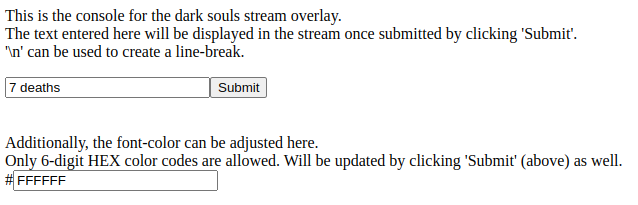
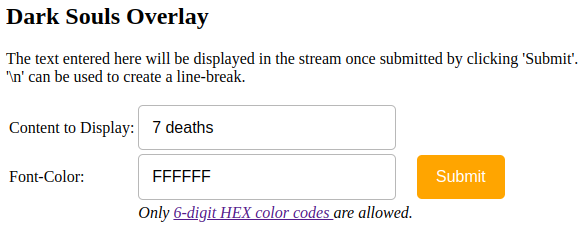
Change layout of dashboard a bit.

Changed region(s): [[0.0, 0.0293, 0.9796, 0.5854], [0.0, 0.6146, 0.9796, 0.9659]]

diff --git a/src/test/kotlin/dev/moetz/darksouls/AdminPluginTest.kt b/src/test/kotlin/dev/moetz/darksouls/AdminPluginTest.kt
@@ -95,12 +95,30 @@ class AdminPluginTest {
 <html>
   <head>
     <meta charset="utf-8">
-    <title>Set the Dark Souls Counter Text</title>
+    <title>Dark Souls Overlay</title>
+    <style>body {font-size: 1em;}.inputfield {border: 1px solid #B8B8B8;padding: 0.8em 0.8em;border-radius: 5px;font-size: 1em;-webkit-box-sizing: border-box;-moz-box-sizing: border-box;box-sizing: border-box;}.inputbutton {color: #FFFFFF;background-color: orange;cursor: pointer;border: 0;border-radius: 5px;padding: 0.8em 1.2em;font-size: 1em;}</style>
   </head>
   <body>
+    <h2>Dark Souls Overlay</h2>
     <div>
-      <p>This is the console for the dark souls stream overlay.<br>The text entered here will be displayed in the stream once submitted by clicking 'Submit'.<br>'\n' can be used to create a line-break.</p>
-      <form action="/set" method="post"><input type="text" name="content" value=""><input type="submit"><br><br><br>Additionally, the font-color can be adjusted here.<br>Only 6-digit HEX color codes are allowed. Will be updated by clicking 'Submit' (above) as well.<br>#<input type="text" name="color" value="FFFFFF"></form>
+      <p>The text entered here will be displayed in the stream once submitted by clicking 'Submit'.<br>'\n' can be used to create a line-break.</p>
+      <form action="/set" method="post">
+        <table>
+          <tr>
+            <td>Content to Display:</td>
+            <td><input type="text" name="content" class="inputfield" value=""></td>
+          </tr>
+          <tr>
+            <td>Font-Color: </td>
+            <td><input type="text" name="color" class="inputfield" value="FFFFFF"></td>
+            <td><input type="submit" class="inputbutton"></td>
+          </tr>
+          <tr>
+            <td></td>
+            <td><i>Only <a href="https://htmlcolorcodes.com/" target="_blank">6-digit HEX color codes </a> are allowed.</i></td>
+          </tr>
+        </table>
+      </form>
     </div>
   </body>
 </html>
@@ -126,12 +144,30 @@ class AdminPluginTest {
 <html>
   <head>
     <meta charset="utf-8">
-    <title>Set the Dark Souls Counter Text</title>
+    <title>Dark Souls Overlay</title>
+    <style>body {font-size: 1em;}.inputfield {border: 1px solid #B8B8B8;padding: 0.8em 0.8em;border-radius: 5px;font-size: 1em;-webkit-box-sizing: border-box;-moz-box-sizing: border-box;box-sizing: border-box;}.inputbutton {color: #FFFFFF;background-color: orange;cursor: pointer;border: 0;border-radius: 5px;padding: 0.8em 1.2em;font-size: 1em;}</style>
   </head>
   <body>
+    <h2>Dark Souls Overlay</h2>
     <div>
-      <p>This is the console for the dark souls stream overlay.<br>The text entered here will be displayed in the stream once submitted by clicking 'Submit'.<br>'\n' can be used to create a line-break.</p>
-      <form action="/set" method="post"><input type="text" name="content" value=""><input type="submit"><br><br><br>Additionally, the font-color can be adjusted here.<br>Only 6-digit HEX color codes are allowed. Will be updated by clicking 'Submit' (above) as well.<br>#<input type="text" name="color" value="FFFFFF"></form>
+      <p>The text entered here will be displayed in the stream once submitted by clicking 'Submit'.<br>'\n' can be used to create a line-break.</p>
+      <form action="/set" method="post">
+        <table>
+          <tr>
+            <td>Content to Display:</td>
+            <td><input type="text" name="content" class="inputfield" value=""></td>
+          </tr>
+          <tr>
+            <td>Font-Color: </td>
+            <td><input type="text" name="color" class="inputfield" value="FFFFFF"></td>
+            <td><input type="submit" class="inputbutton"></td>
+          </tr>
+          <tr>
+            <td></td>
+            <td><i>Only <a href="https://htmlcolorcodes.com/" target="_blank">6-digit HEX color codes </a> are allowed.</i></td>
+          </tr>
+        </table>
+      </form>
     </div>
   </body>
 </html>
@@ -157,12 +193,30 @@ class AdminPluginTest {
 <html>
   <head>
     <meta charset="utf-8">
-    <title>Set the Dark Souls Counter Text</title>
+    <title>Dark Souls Overlay</title>
+    <style>body {font-size: 1em;}.inputfield {border: 1px solid #B8B8B8;padding: 0.8em 0.8em;border-radius: 5px;font-size: 1em;-webkit-box-sizing: border-box;-moz-box-sizing: border-box;box-sizing: border-box;}.inputbutton {color: #FFFFFF;background-color: orange;cursor: pointer;border: 0;border-radius: 5px;padding: 0.8em 1.2em;font-size: 1em;}</style>
   </head>
   <body>
+    <h2>Dark Souls Overlay</h2>
     <div>
-      <p>This is the console for the dark souls stream overlay.<br>The text entered here will be displayed in the stream once submitted by clicking 'Submit'.<br>'\n' can be used to create a line-break.</p>
-      <form action="/set" method="post"><input type="text" name="content" value="Hello World!"><input type="submit"><br><br><br>Additionally, the font-color can be adjusted here.<br>Only 6-digit HEX color codes are allowed. Will be updated by clicking 'Submit' (above) as well.<br>#<input type="text" name="color" value="FFFFFF"></form>
+      <p>The text entered here will be displayed in the stream once submitted by clicking 'Submit'.<br>'\n' can be used to create a line-break.</p>
+      <form action="/set" method="post">
+        <table>
+          <tr>
+            <td>Content to Display:</td>
+            <td><input type="text" name="content" class="inputfield" value="Hello World!"></td>
+          </tr>
+          <tr>
+            <td>Font-Color: </td>
+            <td><input type="text" name="color" class="inputfield" value="FFFFFF"></td>
+            <td><input type="submit" class="inputbutton"></td>
+          </tr>
+          <tr>
+            <td></td>
+            <td><i>Only <a href="https://htmlcolorcodes.com/" target="_blank">6-digit HEX color codes </a> are allowed.</i></td>
+          </tr>
+        </table>
+      </form>
     </div>
   </body>
 </html>
@@ -188,12 +242,30 @@ class AdminPluginTest {
 <html>
   <head>
     <meta charset="utf-8">
-    <title>Set the Dark Souls Counter Text</title>
+    <title>Dark Souls Overlay</title>
+    <style>body {font-size: 1em;}.inputfield {border: 1px solid #B8B8B8;padding: 0.8em 0.8em;border-radius: 5px;font-size: 1em;-webkit-box-sizing: border-box;-moz-box-sizing: border-box;box-sizing: border-box;}.inputbutton {color: #FFFFFF;background-color: orange;cursor: pointer;border: 0;border-radius: 5px;padding: 0.8em 1.2em;font-size: 1em;}</style>
   </head>
   <body>
+    <h2>Dark Souls Overlay</h2>
     <div>
-      <p>This is the console for the dark souls stream overlay.<br>The text entered here will be displayed in the stream once submitted by clicking 'Submit'.<br>'\n' can be used to create a line-break.</p>
-      <form action="/set" method="post"><input type="text" name="content" value="Hello World! äöüÖÄÜß"><input type="submit"><br><br><br>Additionally, the font-color can be adjusted here.<br>Only 6-digit HEX color codes are allowed. Will be updated by clicking 'Submit' (above) as well.<br>#<input type="text" name="color" value="FFFFFF"></form>
+      <p>The text entered here will be displayed in the stream once submitted by clicking 'Submit'.<br>'\n' can be used to create a line-break.</p>
+      <form action="/set" method="post">
+        <table>
+          <tr>
+            <td>Content to Display:</td>
+            <td><input type="text" name="content" class="inputfield" value="Hello World! äöüÖÄÜß"></td>
+          </tr>
+          <tr>
+            <td>Font-Color: </td>
+            <td><input type="text" name="color" class="inputfield" value="FFFFFF"></td>
+            <td><input type="submit" class="inputbutton"></td>
+          </tr>
+          <tr>
+            <td></td>
+            <td><i>Only <a href="https://htmlcolorcodes.com/" target="_blank">6-digit HEX color codes </a> are allowed.</i></td>
+          </tr>
+        </table>
+      </form>
     </div>
   </body>
 </html>
@@ -219,12 +291,30 @@ class AdminPluginTest {
 <html>
   <head>
     <meta charset="utf-8">
-    <title>Set the Dark Souls Counter Text</title>
+    <title>Dark Souls Overlay</title>
+    <style>body {font-size: 1em;}.inputfield {border: 1px solid #B8B8B8;padding: 0.8em 0.8em;border-radius: 5px;font-size: 1em;-webkit-box-sizing: border-box;-moz-box-sizing: border-box;box-sizing: border-box;}.inputbutton {color: #FFFFFF;background-color: orange;cursor: pointer;border: 0;border-radius: 5px;padding: 0.8em 1.2em;font-size: 1em;}</style>
   </head>
   <body>
+    <h2>Dark Souls Overlay</h2>
     <div>
-      <p>This is the console for the dark souls stream overlay.<br>The text entered here will be displayed in the stream once submitted by clicking 'Submit'.<br>'\n' can be used to create a line-break.</p>
-      <form action="/set" method="post"><input type="text" name="content" value="&amp;lt;i&amp;gt;Hello, world!&amp;lt;/i&amp;gt;&amp;lt;script&amp;gt;alert(&amp;#x27;Test&amp;#x27;);&amp;lt;/script&amp;gt;"><input type="submit"><br><br><br>Additionally, the font-color can be adjusted here.<br>Only 6-digit HEX color codes are allowed. Will be updated by clicking 'Submit' (above) as well.<br>#<input type="text" name="color" value="FFFFFF"></form>
+      <p>The text entered here will be displayed in the stream once submitted by clicking 'Submit'.<br>'\n' can be used to create a line-break.</p>
+      <form action="/set" method="post">
+        <table>
+          <tr>
+            <td>Content to Display:</td>
+            <td><input type="text" name="content" class="inputfield" value="&amp;lt;i&amp;gt;Hello, world!&amp;lt;/i&amp;gt;&amp;lt;script&amp;gt;alert(&amp;#x27;Test&amp;#x27;);&amp;lt;/script&amp;gt;"></td>
+          </tr>
+          <tr>
+            <td>Font-Color: </td>
+            <td><input type="text" name="color" class="inputfield" value="FFFFFF"></td>
+            <td><input type="submit" class="inputbutton"></td>
+          </tr>
+          <tr>
+            <td></td>
+            <td><i>Only <a href="https://htmlcolorcodes.com/" target="_blank">6-digit HEX color codes </a> are allowed.</i></td>
+          </tr>
+        </table>
+      </form>
     </div>
   </body>
 </html>

diff --git a/src/main/kotlin/dev/moetz/darksouls/plugins/AdminPlugin.kt b/src/main/kotlin/dev/moetz/darksouls/plugins/AdminPlugin.kt
@@ -60,35 +60,82 @@ fun Application.configureAdmin(
                 call.respondHtml {
                     head {
                         meta(charset = "utf-8")
-                        title("Set the Dark Souls Counter Text")
+                        title("Dark Souls Overlay")
+
+                        style {
+                            unsafe {
+                                +"body {"
+                                +"font-size: 1em;"
+                                +"}"
+
+                                +".inputfield {"
+                                +"border: 1px solid #B8B8B8;"
+                                +"padding: 0.8em 0.8em;"
+                                +"border-radius: 5px;"
+                                +"font-size: 1em;"
+                                +"-webkit-box-sizing: border-box;"
+                                +"-moz-box-sizing: border-box;"
+                                +"box-sizing: border-box;"
+                                +"}"
+
+                                +".inputbutton {"
+                                +"color: #FFFFFF;"
+                                +"background-color: orange;"
+                                +"cursor: pointer;"
+                                +"border: 0;"
+                                +"border-radius: 5px;"
+                                +"padding: 0.8em 1.2em;"
+                                +"font-size: 1em;"
+                                +"}"
+                            }
+                        }
                     }
                     body {
+                        h2 { +"Dark Souls Overlay" }
                         div {
                             p {
-                                +"This is the console for the dark souls stream overlay."
-                                br()
                                 +"The text entered here will be displayed in the stream once submitted by clicking 'Submit'."
                                 br()
                                 +"'\\n' can be used to create a line-break."
                             }
                             form(action = "/set", method = FormMethod.post) {
-                                textInput(name = "content") {
-                                    value = dataUpdate.content.escapeHTML()
-                                }
-                                submitInput()
+                                table {
+                                    tr {
+                                        td {
+                                            +"Content to Display:"
+                                        }
+                                        td {
+                                            textInput(classes = "inputfield", name = "content") {
+                                                value = dataUpdate.content.escapeHTML()
+                                            }
+                                        }
+                                    }
 
-                                br()
-                                br()
-                                br()
 
-                                +"Additionally, the font-color can be adjusted here."
-                                br()
-                                +"Only 6-digit HEX color codes are allowed. Will be updated by clicking 'Submit' (above) as well."
-                                br()
-                                +"#"
-                                textInput(name = "color") {
-                                    val color = dataUpdate.color ?: "FFFFFF"
-                                    value = color.escapeHTML()
+                                    tr {
+                                        td { +"Font-Color: " }
+                                        td {
+                                            textInput(classes = "inputfield", name = "color") {
+                                                value = dataUpdate.color.escapeHTML()
+                                            }
+                                        }
+                                        td {
+                                            submitInput(classes = "inputbutton")
+                                        }
+                                    }
+                                    tr {
+                                        td {}
+                                        td {
+                                            i {
+                                                +"Only "
+                                                a(
+                                                    href = "https://htmlcolorcodes.com/",
+                                                    target = "_blank"
+                                                ) { +"6-digit HEX color codes " }
+                                                +" are allowed."
+                                            }
+                                        }
+                                    }
                                 }
                             }
                         }
